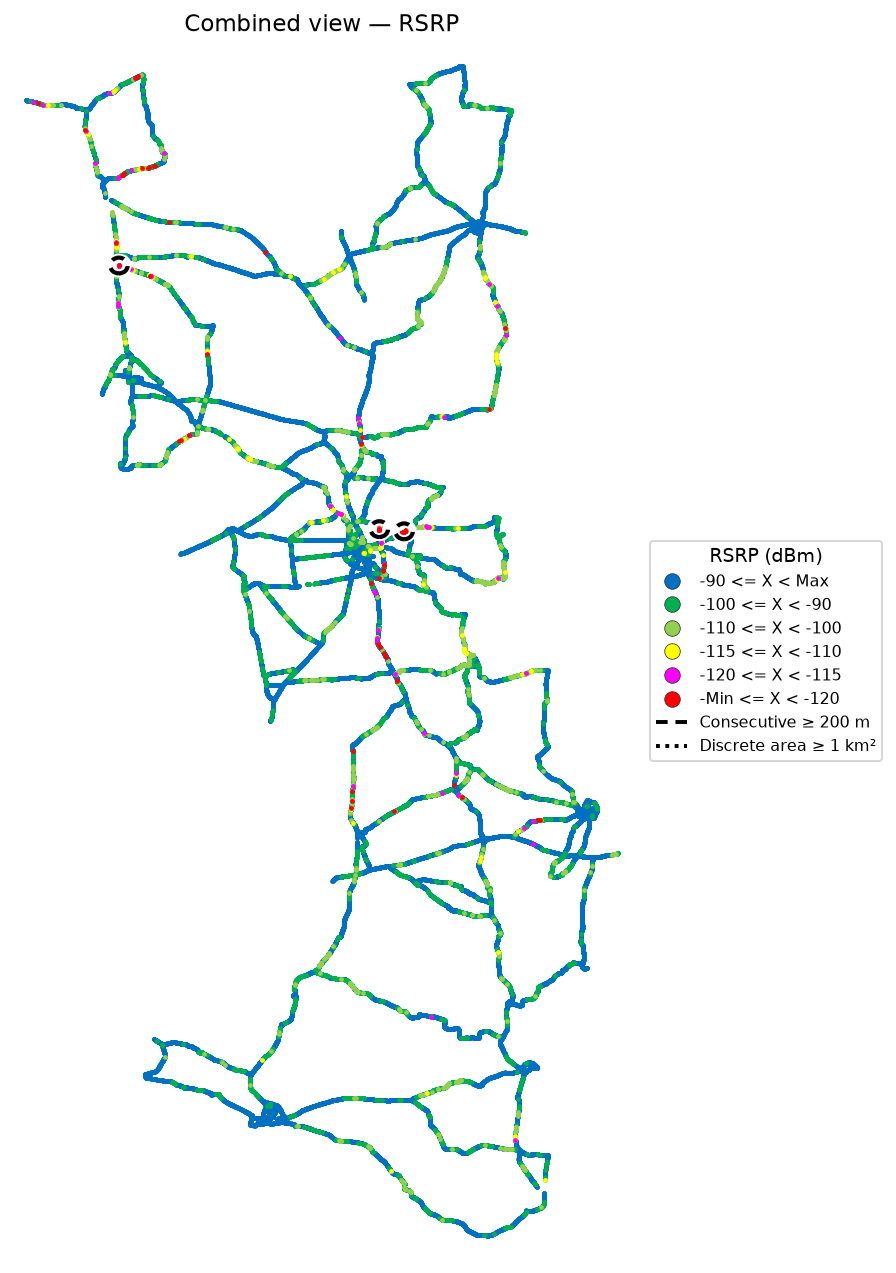
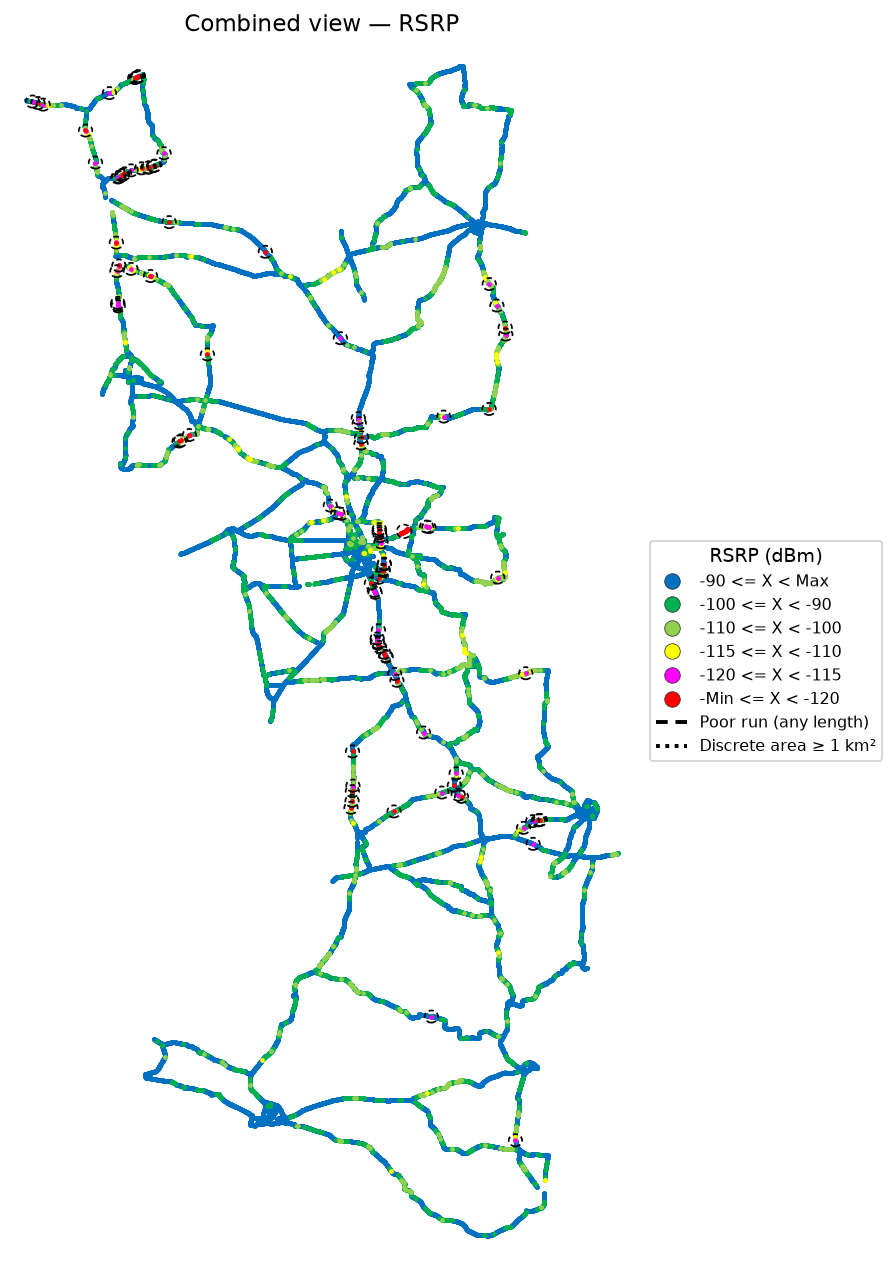
Apply the new bad spot rules: inclusive thresholds, per-KPI minimum length
Poor is now at or below the threshold (RSRP <= -115 dBm, RSRQ <= -20 dB,
SINR <= 0 dB), which adds 18 SINR bins and changes nothing else.

The 200 m minimum was the binding constraint on RSRP only: it left 95 of its 98
poor runs uncircled while RSRQ and SINR were already capped at their 30 longest,
all far over 200 m. RSRP now circles every poor run, however short, with a
single 50 m bin reported as 50 m; RSRQ and SINR keep the 200 m minimum and are
unchanged. Dense maps get smaller, thinner rings so the colour stays visible,
and the legend, panel captions and notes state the rule each KPI actually uses.

diff --git a/merge_and_analyze.py b/merge_and_analyze.py
@@ -585,9 +585,11 @@ def plot_sinr_coverage_map(
 
 
 # Bad-spot rules:
-# 1) A sample is poor when the KPI is at or below the threshold.
-# 2) Consecutive poor coverage along the drive of at least 200 m.
-# 3) Poor samples that never form a 200 m stretch, but cover >= 1 km², get a large circle.
+# 1) A location is poor when the KPI is at or below the threshold.
+# 2) A run of poor road is a bad spot. RSRP marks every run, however short, because
+#    a coverage hole of 50 m is still a hole; RSRQ and SINR are poor over so much of
+#    the drive that only runs of at least 200 m are worth circling.
+# 3) Poor locations that never form a 200 m run, but cover >= 1 km², get a large circle.
 BAD_SPOT_MIN_CONSEC_M = 200.0
 BAD_SPOT_DISCRETE_AREA_KM2 = 1.0
 # Best-server samples are one scanner sweep apart (<= 40 m), so a poor stretch may
@@ -608,16 +610,30 @@ BAD_SPOT_ZOOM_MIN_KM = 1.2
 BAD_SPOT_OUTLINE_PAD = 1.45  # with sqrt(2), oval covers bbox corners / red tails
 BAD_SPOT_OUTLINE_MIN_MINOR_KM = 0.50
 BAD_SPOT_OVERVIEW_MIN_KM = 2.6  # city-scale combined map must show a visible circle
+BAD_SPOT_OVERVIEW_DENSE_MIN_KM = 2.0  # many spots: smaller, thinner rings stay readable
 BAD_SPOT_OVERVIEW_MAX_KM = 4.5
 BAD_SPOT_OVERVIEW_LW = 2.15
+BAD_SPOT_OVERVIEW_DENSE_LW = 0.9
 BAD_SPOT_ZOOM_COLS = 4
 BAD_SPOT_MAX_ZOOMS = 16
 BAD_SPOT_MAX = BAD_SPOT_MAX_CONSEC + BAD_SPOT_MAX_DISCRETE
 BAD_SPOT_RULES = {
-    "RSRP": {"threshold": -115.0, "unit": "dBm"},
-    "RSRQ": {"threshold": -20.0, "unit": "dB"},
-    "SINR": {"threshold": 0.0, "unit": "dB"},
+    "RSRP": {"threshold": -115.0, "unit": "dBm", "min_consecutive_m": 0.0, "max_consecutive": 150},
+    "RSRQ": {"threshold": -20.0, "unit": "dB", "min_consecutive_m": BAD_SPOT_MIN_CONSEC_M, "max_consecutive": 30},
+    "SINR": {"threshold": 0.0, "unit": "dB", "min_consecutive_m": BAD_SPOT_MIN_CONSEC_M, "max_consecutive": 30},
 }
+
+
+def min_consecutive_m(column: str) -> float:
+    return float(BAD_SPOT_RULES[column].get("min_consecutive_m", BAD_SPOT_MIN_CONSEC_M))
+
+
+def consecutive_label(column: str) -> str:
+    """Legend / table wording for the consecutive rule actually applied to this KPI."""
+    minimum = min_consecutive_m(column)
+    if minimum <= 0:
+        return "Poor run (any length)"
+    return f"Consecutive \u2265 {minimum:,.0f} m"
 
 
 def _km_per_deg_lon(lat: float) -> float:
@@ -632,9 +648,9 @@ def _equirect_km(lat1, lon1, lat2, lon2) -> np.ndarray:
 
 
 def _poor_mask(values: pd.Series, threshold: float) -> pd.Series:
-    """Poor samples are strictly below the KPI threshold (RSRP pink+red: X < -115)."""
+    """Poor is at or below the KPI threshold (RSRP <= -115, RSRQ <= -20, SINR <= 0)."""
     v = pd.to_numeric(values, errors="coerce")
-    return v.notna() & (v < threshold)
+    return v.notna() & (v <= threshold)
 
 
 def _prepare_track(df: pd.DataFrame, column: str) -> pd.DataFrame:
@@ -841,9 +857,16 @@ def _split_by_span(run: list[int], lat: np.ndarray, lon: np.ndarray) -> list[lis
 
 
 def _consecutive_bad_spots(
-    track: pd.DataFrame, column: str, threshold: float, detect_column: str | None = None
+    track: pd.DataFrame,
+    column: str,
+    threshold: float,
+    detect_column: str | None = None,
+    min_length_m: float = BAD_SPOT_MIN_CONSEC_M,
 ) -> tuple[pd.DataFrame, np.ndarray]:
-    """Rule 2: consecutive poor path length >= 200 m. Returns (spots, used-row mask)."""
+    """Rule 2: a run of consecutive poor road of at least min_length_m.
+
+    Returns (spots, used-row mask).
+    """
     detect_column = detect_column or column
     n = len(track)
     used = np.zeros(n, dtype=bool)
@@ -866,10 +889,11 @@ def _consecutive_bad_spots(
     longest_short_m = 0.0
     for run in _poor_runs(np.flatnonzero(poor), same_pass, cum_m, time_s):
         for piece in _split_by_span(run, lat, lon):
-            if len(piece) < 2:
+            if not piece:
                 continue
-            length_m = float(cum_m[piece[-1]] - cum_m[piece[0]])
-            if length_m < BAD_SPOT_MIN_CONSEC_M:
+            # A lone poor sample still stands for the 50 m bin it was judged on.
+            length_m = max(float(cum_m[piece[-1]] - cum_m[piece[0]]), MAP_BIN_M)
+            if length_m < min_length_m:
                 longest_short_m = max(longest_short_m, length_m)
                 continue
             chunk = track.iloc[piece]
@@ -981,18 +1005,27 @@ def _spot_extra_stats(df: pd.DataFrame, spot: pd.Series) -> dict:
     }
 
 
-def find_bad_spots(df: pd.DataFrame, column: str, max_spots: int = BAD_SPOT_MAX) -> pd.DataFrame:
+def find_bad_spots(df: pd.DataFrame, column: str, max_spots: int | None = None) -> pd.DataFrame:
     """Bad spots on the same best-server all-band track used by the first coverage map."""
     rule = BAD_SPOT_RULES[column]
     threshold = rule["threshold"]
+    if max_spots is None:
+        max_spots = int(rule.get("max_consecutive", BAD_SPOT_MAX_CONSEC)) + BAD_SPOT_MAX_DISCRETE
     track = _prepare_track(df, column)
     binned_col = f"{column}__binned"
     track[binned_col] = binned_kpi(track, column)
-    consec, used = _consecutive_bad_spots(track, column, threshold, detect_column=binned_col)
+    consec, used = _consecutive_bad_spots(
+        track,
+        column,
+        threshold,
+        detect_column=binned_col,
+        min_length_m=float(rule.get("min_consecutive_m", BAD_SPOT_MIN_CONSEC_M)),
+    )
     longest_short_m = float(consec.attrs.get("longest_short_m", 0.0))
     total_consec = len(consec)
-    if total_consec > BAD_SPOT_MAX_CONSEC:
-        consec = consec.head(BAD_SPOT_MAX_CONSEC).copy()
+    max_consec = int(rule.get("max_consecutive", BAD_SPOT_MAX_CONSEC))
+    if total_consec > max_consec:
+        consec = consec.head(max_consec).copy()
     leftover = track.iloc[np.flatnonzero(_poor_mask(track[binned_col], threshold).to_numpy() & ~used)]
     discrete = _discrete_area_bad_spots(leftover, column, threshold)
     if not discrete.empty:
@@ -1125,31 +1158,37 @@ def _spot_outline(spot: pd.Series) -> tuple[float, float, float, float, float, t
     return lon0, lat0, width_km / km_lon, height_km / 111.32, 0.0, style
 
 
-def _add_spot_outline(ax, spot: pd.Series, *, overview: bool = False) -> None:
+def _add_spot_outline(
+    ax, spot: pd.Series, *, overview: bool = False, min_diameter_km: float = BAD_SPOT_OVERVIEW_MIN_KM
+) -> None:
     cx, cy, w, h, angle, style = _spot_outline(spot)
     lat0 = cy
     km_lon = _km_per_deg_lon(lat0)
     if overview:
         width_km = abs(w) * km_lon
         height_km = abs(h) * 111.32
-        diameter_km = float(np.clip(max(width_km, height_km, BAD_SPOT_OVERVIEW_MIN_KM), BAD_SPOT_OVERVIEW_MIN_KM, BAD_SPOT_OVERVIEW_MAX_KM))
+        diameter_km = float(np.clip(max(width_km, height_km, min_diameter_km), min_diameter_km, BAD_SPOT_OVERVIEW_MAX_KM))
         w = diameter_km / km_lon
         h = diameter_km / 111.32
         angle = 0.0
-        lw = BAD_SPOT_OVERVIEW_LW
-        ax.add_patch(
-            Ellipse(
-                (cx, cy),
-                width=w,
-                height=h,
-                angle=angle,
-                fill=False,
-                edgecolor="#FFFFFF",
-                linestyle="solid",
-                linewidth=lw + 2.0,
-                zorder=5.6,
+        dense = min_diameter_km < BAD_SPOT_OVERVIEW_MIN_KM
+        lw = BAD_SPOT_OVERVIEW_DENSE_LW if dense else BAD_SPOT_OVERVIEW_LW
+        if not dense:
+            # A lone ring reads better with a halo; dozens of haloed rings just
+            # smother the colour underneath.
+            ax.add_patch(
+                Ellipse(
+                    (cx, cy),
+                    width=w,
+                    height=h,
+                    angle=angle,
+                    fill=False,
+                    edgecolor="#FFFFFF",
+                    linestyle="solid",
+                    linewidth=lw + 2.0,
+                    zorder=5.6,
+                )
             )
-        )
     else:
         lw = 1.0
     ax.add_patch(
@@ -1216,7 +1255,7 @@ def plot_bad_spot_map(
     handles = _coverage_legend_handles(labels, colors)
     handles.extend(
         [
-            Line2D([0], [0], color="#000000", lw=2.0, linestyle=(0, (3, 2)), label="Consecutive ≥ 200 m"),
+            Line2D([0], [0], color="#000000", lw=2.0, linestyle=(0, (3, 2)), label=consecutive_label(column)),
             Line2D([0], [0], color="#000000", lw=2.0, linestyle=(0, (1, 1.4)), label="Discrete area ≥ 1 km²"),
         ]
     )
@@ -1230,8 +1269,11 @@ def plot_bad_spot_map(
         title_fontsize=10,
     )
     if spots is not None and not spots.empty:
+        # A KPI with dozens of short holes needs smaller rings or the map disappears
+        # under them.
+        min_km = BAD_SPOT_OVERVIEW_MIN_KM if len(spots) <= 40 else BAD_SPOT_OVERVIEW_DENSE_MIN_KM
         for _, spot in spots.iterrows():
-            _add_spot_outline(ax, spot, overview=True)
+            _add_spot_outline(ax, spot, overview=True, min_diameter_km=min_km)
     ax.set_title(title)
     hide_map_axes(ax)
     fig.tight_layout()
@@ -1291,7 +1333,8 @@ def plot_bad_spot_zoom_grid(
         if kind == "discrete":
             caption = f"Discrete {float(spot['area_km2']):.1f} km²"
         else:
-            caption = f"Consecutive {float(spot['length_m']):.0f} m"
+            word = "Poor run" if min_consecutive_m(column) <= 0 else "Consecutive"
+            caption = f"{word} {float(spot['length_m']):.0f} m"
         ax.set_title(caption, fontsize=8)
     fig.suptitle(title, fontsize=11, fontweight="bold")
     fig.tight_layout()

diff --git a/generate_excel_report.py b/generate_excel_report.py
@@ -10,6 +10,7 @@ from __future__ import annotations
 
 from datetime import datetime
 from pathlib import Path
+import math
 import re
 import shutil
 import zipfile
@@ -47,7 +48,11 @@ from merge_and_analyze import (
     earfcn_to_band,
     earfcn_to_layer,
     filter_by_layer,
+    BAD_SPOT_MAX_ZOOMS,
+    BAD_SPOT_RULES,
+    consecutive_label,
     find_bad_spots,
+    min_consecutive_m,
     best_server,
     plot_rsrp_bad_spot_map,
     plot_rsrp_coverage_map,
@@ -63,7 +68,7 @@ from merge_and_analyze import (
     sinr_map_class,
 )
 
-REPORT_VERSION = "1.28"
+REPORT_VERSION = "1.29"
 REPORT_XLSX = OUTPUT_DIR / "Bogura_DriveTest_Report.xlsx"
 VERSIONED_XLSX = OUTPUT_DIR / f"Bogura_DriveTest_Report_v{REPORT_VERSION}.xlsx"
 
@@ -617,25 +622,26 @@ def build_kpi_sheet(
         )
 
 
-def _kind_label(kind: object) -> str:
+def _kind_label(kind: object, kpi: object = None) -> str:
     text = str(kind or "")
     if text == "discrete":
         return "Discrete area \u2265 1 km\u00b2"
-    return "Consecutive \u2265 200 m"
+    return consecutive_label(str(kpi)) if kpi in BAD_SPOT_RULES else "Consecutive \u2265 200 m"
 
 
 BAD_SPOT_KPI_NOTES = {
     "RSRP": (
-        "Poor samples are RSRP below -115 dBm (magenta and red only; yellow is not a bad-spot colour). "
+        "Poor is RSRP at or below -115 dBm (magenta and red only; yellow is not a bad-spot colour). "
+        "Every poor run is circled, however short, because a 50 m coverage hole is still a hole. "
         "The combined view at the top is the same all-band best-server map as the RSRP sheet, with bad spots marked. "
         "Best server is the strongest band per scanner sweep, so a weak band is never mapped as the coverage of a road."
     ),
     "RSRQ": (
-        "Poor samples are RSRQ below -20 dB (red). "
+        "Poor is RSRQ at or below -20 dB (red), and a bad spot is a run of at least 200 m. "
         "The combined view at the top is the same all-band best-server map as the RSRQ sheet, with bad spots marked."
     ),
     "SINR": (
-        "Poor samples are SINR below 0 dB (orange and red). "
+        "Poor is SINR at or below 0 dB (orange and red), and a bad spot is a run of at least 200 m. "
         "The combined view at the top is the same all-band best-server map as the SINR sheet, with bad spots marked."
     ),
 }
@@ -648,7 +654,7 @@ def _bad_spot_table_rows(spots: pd.DataFrame, *, include_kpi: bool = True) -> li
         length_m = s.get("length_m", np.nan)
         area_km2 = s.get("area_km2", np.nan)
         row = [
-            _kind_label(s.get("kind")),
+            _kind_label(s.get("kind"), s.get("kpi")),
         ]
         if include_kpi:
             row.append(str(s["kpi"]))
@@ -679,16 +685,23 @@ def _detection_summary(kpi: str, spots: pd.DataFrame) -> str:
     total_consec = int(spots.attrs.get("total_consecutive", int((spots["kind"] == "consecutive").sum())))
     total_discrete = int(spots.attrs.get("total_discrete", int((spots["kind"] == "discrete").sum())))
     shown_consec = int((spots["kind"] == "consecutive").sum())
-    text = (
-        f"The rules find {total_consec} consecutive {kpi} stretch(es) of at least 200 m "
-        f"and {total_discrete} discrete area(s) of at least 1 km\u00b2."
-    )
+    minimum = min_consecutive_m(kpi)
+    if minimum <= 0:
+        text = (
+            f"The rules find {total_consec} poor {kpi} run(s) on the drive, all of them circled, "
+            f"and {total_discrete} discrete area(s) of at least 1 km\u00b2."
+        )
+    else:
+        text = (
+            f"The rules find {total_consec} consecutive {kpi} run(s) of at least {minimum:,.0f} m "
+            f"and {total_discrete} discrete area(s) of at least 1 km\u00b2."
+        )
     if total_consec > shown_consec:
-        text += f" The {shown_consec} longest stretches are mapped and listed below."
+        text += f" The {shown_consec} longest runs are mapped and listed below."
     longest_short = float(spots.attrs.get("longest_short_m", 0.0))
-    if longest_short >= 50:
+    if minimum > 0 and longest_short >= 50:
         text += (
-            f" The longest poor stretch that misses the rule is {longest_short:,.0f} m, "
+            f" The longest poor run that misses the rule is {math.floor(longest_short):,} m, "
             "so shorter poor patches on the map are left unmarked."
         )
     return text
@@ -727,10 +740,10 @@ def build_kpi_bad_spot_sheet(
         1,
         BAD_SPOT_KPI_NOTES[kpi]
         + " Maps and rules read the same 50 m road bins: a bin is coloured by the median of the "
-        "samples measured in it and counts as poor only when that median is below the threshold, "
-        "and poor bins are drawn on top of good ones. A circle can therefore only sit on colour you "
-        "can see. Consecutive poor coverage of at least 200 m is a thin black dashed oval, and a "
-        "discrete patch of at least 1 km\u00b2 is a thin black dotted circle. "
+        "samples measured in it and counts as poor only when that median is at or below the "
+        "threshold, and poor bins are drawn on top of good ones. A circle can therefore only sit on "
+        "colour you can see. A poor run is a thin black dashed oval, and a discrete patch of at "
+        "least 1 km\u00b2 is a thin black dotted circle. "
         + _detection_summary(kpi, spots)
         + " Numbers are not drawn on the maps.",
         size=11,
@@ -745,7 +758,11 @@ def build_kpi_bad_spot_sheet(
         add_image(ws, combined_map, "A10", width=760, height=660)
 
     zoom_row = 46
-    section_bar(ws, zoom_row, f"{kpi} zoomed locations", 1, last_col)
+    zoom_title = f"{kpi} zoomed locations"
+    shown_zooms = 0 if spots is None or spots.empty else min(len(spots), BAD_SPOT_MAX_ZOOMS)
+    if spots is not None and len(spots) > shown_zooms:
+        zoom_title = f"{zoom_title}  |  {shown_zooms} longest of {len(spots)}"
+    section_bar(ws, zoom_row, zoom_title, 1, last_col)
     zoom_h = _zoom_display_height(zooms, spots)
     if zooms is not None and zooms.exists():
         add_image(ws, zooms, f"A{zoom_row + 2}", width=860, height=zoom_h)
@@ -797,9 +814,9 @@ def build_kpi_bad_spot_sheet(
         note_row,
         1,
         "Combined view is the first all-band coverage map with thin black outlines on poor stretches. "
-        "Poor share is the share of raw samples inside the spot box that are below the threshold: a "
-        "low value means the road is poor on some passes only. Short poor patches that never reach "
-        "200 m of continuous poor coverage are left unmarked by design. Map numbers are omitted.",
+        "Poor share is the share of raw samples inside the spot box that are at or below the "
+        "threshold: a low value means the road is poor on some passes only. Length is the distance "
+        "of road the run covers, and a single 50 m bin is reported as 50 m. Map numbers are omitted.",
         size=9,
         wrap=True,
     )

diff --git a/README.md b/README.md
@@ -92,23 +92,24 @@ Throughput (PDCP DL) and CQI are on the same legend sheet but are not in these I
 
 **Bad Spot RSRP / RSRQ / SINR** are separate sheets (one KPI each). Each sheet puts the **combined all-band view with marks on top**, then zoomed local inspection. Map numbers are omitted.
 
-- **RSRP** < −115 dBm (magenta and red only; yellow is not a bad-spot colour), **RSRQ** < −20 dB (red), **SINR** < 0 dB
-- Maps and rules read the same **50 m road bins**: a bin is coloured by the median of the samples measured in it and counts as poor only when that median is below the threshold, and poor bins are drawn on top of good ones — so a circle can only sit on colour the map actually shows
-- **Consecutive:** at least 200 m of poor coverage along the drive (thin black dashed oval covering the whole poor stretch)
+- Poor is **RSRP ≤ −115 dBm** (magenta and red only; yellow is not a bad-spot colour), **RSRQ ≤ −20 dB** (red), **SINR ≤ 0 dB** (orange and red)
+- Maps and rules read the same **50 m road bins**: a bin is coloured by the median of the samples measured in it and counts as poor only when that median is at or below the threshold, and poor bins are drawn on top of good ones — so a circle can only sit on colour the map actually shows
+- **RSRP:** every poor run is circled, however short, because a 50 m coverage hole is still a hole. A single poor bin is reported as 50 m
+- **RSRQ / SINR:** poor coverage is so widespread that only runs of at least 200 m are circled, and the 30 longest are mapped and tabled
 - **Discrete area:** leftover poor bins covering at least 1 km² where that area is at least half poor (thin black dotted circle)
-- Poor patches shorter than 200 m are left unmarked by design; each sheet states how many stretches the rules found and how long the longest one that missed the rule was
+- Each sheet states how many runs the rules found, how many are drawn, and — where a minimum length applies — how long the longest run that missed it was
 
-## Download Excel report (v1.28)
+## Download Excel report (v1.29)
 
-**v1.28 (current):** https://github.com/miles4482/Drive-test-Log-Analysis-and-Plot/raw/cursor/merge-bogura-drive-test-logs-7dfb/output/Bogura_DriveTest_Report_v1.28.xlsx
+**v1.29 (current):** https://github.com/miles4482/Drive-test-Log-Analysis-and-Plot/raw/cursor/merge-bogura-drive-test-logs-7dfb/output/Bogura_DriveTest_Report_v1.29.xlsx
 
 Latest copy: https://github.com/miles4482/Drive-test-Log-Analysis-and-Plot/raw/cursor/merge-bogura-drive-test-logs-7dfb/output/Bogura_DriveTest_Report.xlsx
 
-GitHub file page: https://github.com/miles4482/Drive-test-Log-Analysis-and-Plot/blob/cursor/merge-bogura-drive-test-logs-7dfb/output/Bogura_DriveTest_Report_v1.28.xlsx
+GitHub file page: https://github.com/miles4482/Drive-test-Log-Analysis-and-Plot/blob/cursor/merge-bogura-drive-test-logs-7dfb/output/Bogura_DriveTest_Report_v1.29.xlsx
 
 ## Excel report
 
-`output/Bogura_DriveTest_Report_v1.28.xlsx` (also saved as `output/Bogura_DriveTest_Report.xlsx`)
+`output/Bogura_DriveTest_Report_v1.29.xlsx` (also saved as `output/Bogura_DriveTest_Report.xlsx`)
 
 Sheet banners do not include the file version. The filename still carries the version when the report is updated.
 
